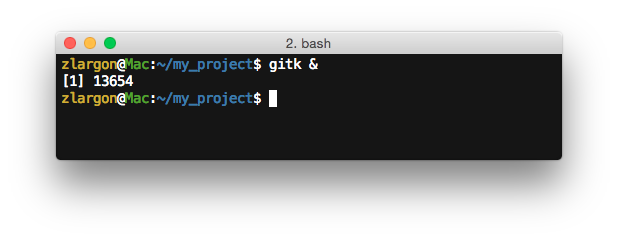
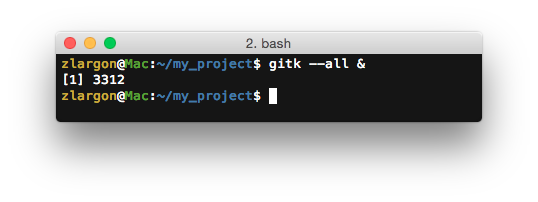
[branch] add parameter '--all' when starting Gitk

Changed region(s): [[0.0892, 0.1188, 0.9219, 0.7723]]

diff --git a/branch/README.md b/branch/README.md
@@ -3,7 +3,7 @@
 #### [查看分支](show.md)
 
     git branch
-    gitk &
+    gitk --all &
 
 #### [建立 / 刪除分支](create_delete.md)
 
